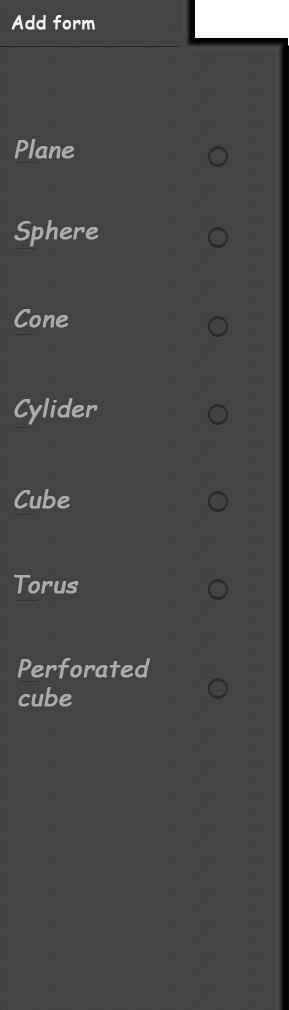
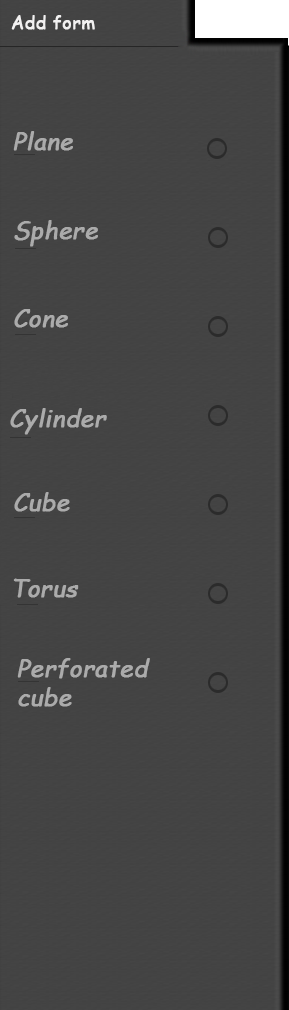
need to fix zoom / movement past is ready to use ready to add form

diff --git a/src/main/main.c b/src/main/main.c
@@ -5,7 +5,7 @@
 ** Login   <samuel_r@epitech.net>
 **
 ** Started on  Tue Apr  5 14:24:28 2016 romain samuel
-** Last update Sun Apr 24 18:26:08 2016 bougon_p
+** Last update Mon Apr 25 20:19:10 2016 bougon_p
 */
 
 #include "raytracer.h"
@@ -35,18 +35,37 @@ t_bunny_response        my_wheel(int wheelid,
 				 void *_data)
 {
   t_data	*data;
+  t_acc		vec;
 
   data = _data;
+  vec.x = 0;
+  vec.y = 0;
+  vec.z = 500;
   if (data->rt.live)
     {
       if (delta == 1 && wheelid == 0)
-	data->rt.eye.pos.z += 100;
+	{
+	  rotate_x(&vec, (double)data->rt.eye.rot.x);
+	  rotate_y(&vec, (double)data->rt.eye.rot.y);
+	  rotate_z(&vec, (double)data->rt.eye.rot.z);
+	  data->rt.eye.pos.x += vec.x;
+	  data->rt.eye.pos.y += vec.y;
+	  data->rt.eye.pos.z += vec.z;
+	}
       else if (delta == -1 && wheelid == 0)
-	data->rt.eye.pos.z -= 100;
-      if (delta == 1 && wheelid == 1)
-	data->rt.eye.pos.x += 100;
-      else if (delta == -1 && wheelid == 1)
-	data->rt.eye.pos.x -= 100;
+	{
+	  vec.z = -500;
+	  rotate_x(&vec, (double)data->rt.eye.rot.x);
+	  rotate_y(&vec, (double)data->rt.eye.rot.y);
+	  rotate_z(&vec, (double)data->rt.eye.rot.z);
+	  data->rt.eye.pos.x += vec.x;
+	  data->rt.eye.pos.y += vec.y;
+	  data->rt.eye.pos.z += vec.z;
+	}
+      /* if (delta == 1 && wheelid == 1) */
+      /* 	data->rt.eye.pos.x += 100; */
+      /* else if (delta == -1 && wheelid == 1) */
+      /* 	data->rt.eye.pos.x -= 100; */
     }
   return (GO_ON);
 }

diff --git a/src/interface/context/add_form.c b/src/interface/context/add_form.c
@@ -5,7 +5,7 @@
 ** Login   <bougon_p@epitech.net>
 **
 ** Started on  Sun Apr 17 01:54:34 2016 bougon_p
-** Last update Sun Apr 24 17:23:37 2016 bougon_p
+** Last update Mon Apr 25 19:01:57 2016 bougon_p
 */
 
 #include "raytracer.h"
@@ -40,16 +40,20 @@ int				add_form(t_data *data)
 {
   int				i;
   const t_bunny_position	*mpos;
+  int				save;
 
   printf("FCT => ADD FORM\n");
   mpos = data->itfc.mpos;
   i = 0;
+  save = NB_ADD_BT + 1;
   while (i < NB_ADD_BT)
     {
       if (mpos->x > ADD_BT_X
 	  && mpos->x < ADD_BT_X + ADD_BT_WDT
-	  && mpos->y > ADD_BT_Y + (ADD_BT_HGT * i) + (ADD_BT_DECAL * i)
-	  && mpos->y < ADD_BT_Y + (ADD_BT_HGT * i) + (ADD_BT_DECAL * i) + ADD_BT_HGT)
+	  && mpos->y > ADD_BT_Y + (ADD_BT_HGT * i)
+	  + (ADD_BT_DECAL * i)
+	  && mpos->y < ADD_BT_Y + (ADD_BT_HGT * i)
+	  + (ADD_BT_DECAL * i) + ADD_BT_HGT)
 	{
 	  if (i >= 0 && i < 3)
 	    first_add(data, i);
@@ -57,8 +61,18 @@ int				add_form(t_data *data)
 	    second_add(data, i);
 	  else if (i == 6)
 	    data->itfc.fct_bt_context = add_perf_cube;
+	  save = i;
+	  printf("SAVE = %d\n", save);
 	}
       i++;
     }
+  if (save < NB_ADD_BT)
+    {
+      data->itfc.past.pos.x = PAST_X;
+      data->itfc.past.pos.y = PAST_Y + save * PAST_DECAL_Y;
+    }
+  else
+    data->itfc.past.pos.x = 0;
+  printf("HIT -> %d", save);
   return (0);
 }

diff --git a/include/interface.h b/include/interface.h
@@ -5,7 +5,7 @@
 ** Login   <bougon_p@epitech.net>
 **
 ** Started on  Wed Apr 13 22:53:18 2016 bougon_p
-** Last update Sun Apr 24 18:36:30 2016 bougon_p
+** Last update Mon Apr 25 19:05:16 2016 bougon_p
 */
 
 #ifndef INTERFACE_H_
@@ -19,8 +19,8 @@
 
 # define WORK_SPACE_X 433
 # define MAX_WORK_SPACE_X 1904
-# define WORK_SPACE_Y 72
-# define MAX_WORK_SPACE_Y 985
+# define WORK_SPACE_Y 75
+# define MAX_WORK_SPACE_Y 1012
 
 # define START_STATUS 11
 # define NB_STATUS 3
@@ -44,10 +44,14 @@
 /*
 ** TXT DEFINES
 */
-#define FIRST_Y 12
-#define DECAL_X 2
-#define SIZE_Y 36
-#define CH_LINE 32
+# define FIRST_Y 12
+# define DECAL_X 2
+# define SIZE_Y 36
+# define CH_LINE 32
+
+# define PAST_X 341
+# define PAST_Y 210
+# define PAST_DECAL_Y 89
 
 typedef enum			e_status
   {
@@ -120,12 +124,19 @@ typedef	struct			s_open
   bool				need_open;
 }				t_open;
 
+typedef	struct			s_past
+{
+  t_bunny_position		pos;
+  t_bunny_picture		*img;
+}				t_past;
+
 typedef struct			s_itfc
 {
   t_move			move;
   t_text			txt;
   t_save			save;
   t_open			open;
+  t_past			past;
   t_bunny_picture		*layout;
   t_bunny_picture		*context[9];
   int				act_context;

diff --git a/src/main/tekpixel.c b/src/main/tekpixel.c
@@ -5,7 +5,7 @@
 ** Login   <samuel_r@epitech.net>
 **
 ** Started on  Sat Apr  9 13:49:53 2016 romain samuel
-** Last update Sun Apr 24 15:15:28 2016 bougon_p
+** Last update Mon Apr 25 15:17:54 2016 bougon_p
 */
 
 #include "raytracer.h"
@@ -27,15 +27,30 @@ void		mult_tekpixel(t_bunny_pixelarray *pix,
 			 t_color *color)
 {
   int		i;
+  int		i2;
+  int		i3;
+  int		i4;
   t_color	*col;
 
   col = (t_color *)pix->pixels;
   i = pix->clipable.clip_width * pos->y + pos->x;
+  i2 = pix->clipable.clip_width * (pos->y + 1) + pos->x;
+  i3 = pix->clipable.clip_width * (pos->y + 2) + pos->x;
+  i4 = pix->clipable.clip_width * (pos->y + 3) + pos->x;
   col[i] = *color;
   col[i + 1] = *color;
   col[i + 2] = *color;
-  i += pix->clipable.clip_width;
-  col[i] = *color;
-  col[i + 1] = *color;
-  col[i + 2] = *color;
+  col[i + 3] = *color;
+  col[i2] = *color;
+  col[i2 + 1] = *color;
+  col[i2 + 2] = *color;
+  col[i2 + 3] = *color;
+  col[i3] = *color;
+  col[i3 + 1] = *color;
+  col[i3 + 2] = *color;
+  col[i3 + 3] = *color;
+  col[i4] = *color;
+  col[i4 + 1] = *color;
+  col[i4 + 2] = *color;
+  col[i4 + 3] = *color;
 }

diff --git a/src/live_engine/display.c b/src/live_engine/display.c
@@ -5,7 +5,7 @@
 ** Login   <samuel_r@epitech.net>
 **
 ** Started on  Mon Apr 18 19:05:58 2016 romain samuel
-** Last update Sun Apr 24 15:15:16 2016 bougon_p
+** Last update Mon Apr 25 15:16:17 2016 bougon_p
 */
 
 #include "raytracer.h"
@@ -42,10 +42,10 @@ int			live_display(t_rt *s)
   if ((s->pixel_color = malloc(sizeof(t_color) * s->opt.aa)) == NULL)
     return (my_puterr("display: could not perform malloc"));
   pos.y = 0;
-  while (pos.y < 720)
+  while (pos.y < s->height)
     {
       pos.x = 0;
-      while (pos.x < 720)
+      while (pos.x < s->width)
 	{
 	  vct.x = ((double)s->width / 2.0) - (double)pos.x;
 	  vct.y = ((double)s->height / 2.0) - (double)pos.y;
@@ -53,9 +53,9 @@ int			live_display(t_rt *s)
 	  rotation(&vct, &s->eye.rot);
 	  final_color = live_display_objects(s, &vct, s->eye.pos, 0);
 	  mult_tekpixel(s->img, &pos, &final_color);
-	  pos.x += 2;
+	  pos.x += 4;
 	}
-      pos.y += 2;
+      pos.y += 4;
     }
   return (0);
 }

diff --git a/src/interface/init_itfc.c b/src/interface/init_itfc.c
@@ -5,7 +5,7 @@
 ** Login   <bougon_p@epitech.net>
 **
 ** Started on  Wed Apr 13 23:33:13 2016 bougon_p
-** Last update Sat Apr 23 16:17:43 2016 bougon_p
+** Last update Mon Apr 25 15:58:26 2016 bougon_p
 */
 
 #include "raytracer.h"
@@ -116,7 +116,13 @@ int	init_itfc_data(t_itfc *itfc, UNUSED int ac)
   itfc->rendered = false;
   itfc->move.needmoving = false;
   itfc->left_click = false;
-  if ((itfc->txt.font = bunny_load_picture("assets/img/font.png")) == NULL)
+  if ((itfc->txt.font =
+       bunny_load_picture("assets/img/incoshow.png")) == NULL)
     return (my_puterr("Could not perform bunny_load_picture"));
+  if ((itfc->past.img =
+       bunny_load_picture("assets/img/past.png")) == NULL)
+    return (my_puterr("Could not perform bunny_load_picture"));
+  itfc->past.pos.x = 0;
+  itfc->past.pos.y = 0;
   return (0);
 }

diff --git a/src/interface/rotate_eye.c b/src/interface/rotate_eye.c
@@ -5,7 +5,7 @@
 ** Login   <bougon_p@epitech.net>
 **
 ** Started on  Sun Apr 17 18:49:47 2016 bougon_p
-** Last update Thu Apr 21 22:32:41 2016 bougon_p
+** Last update Mon Apr 25 15:12:40 2016 bougon_p
 */
 
 #include "raytracer.h"
@@ -20,10 +20,10 @@ void	rotate(t_data *data, const t_bunny_position *mpos)
   else
     {
       data->itfc.move.second_pos = *mpos;
+      data->rt.eye.rot.y +=
+	((data->itfc.move.second_pos.x - data->itfc.move.first_pos.x) / 3);
       data->rt.eye.rot.x +=
-	((data->itfc.move.second_pos.x - data->itfc.move.first_pos.x) / 30);
-      data->rt.eye.pos.y +=
-	((data->itfc.move.second_pos.y - data->itfc.move.first_pos.y) / 30);
+	((data->itfc.move.second_pos.y - data->itfc.move.first_pos.y) / 3);
       data->itfc.move.first_pos = data->itfc.move.second_pos;
     }
 }

diff --git a/src/main/blit_clipables.c b/src/main/blit_clipables.c
@@ -5,7 +5,7 @@
 ** Login   <bougon_p@epitech.net>
 **
 ** Started on  Thu Apr 14 00:25:51 2016 bougon_p
-** Last update Fri Apr 22 22:28:52 2016 bougon_p
+** Last update Mon Apr 25 17:07:41 2016 bougon_p
 */
 
 #include "raytracer.h"
@@ -24,7 +24,9 @@ void		blit_clipables(t_data *data)
   if (rt->img != NULL)
     bunny_blit(&data->win->buffer, &rt->img->clipable, &rt->pos);
   if (data->ld.loading != NULL && data->itfc.rendered
-      && !rt->live && !itfc->button[SAVE])
+      && !rt->live && !itfc->button[SAVE] && !itfc->button[OPEN])
     bunny_blit(&data->win->buffer,
 	       &data->ld.loading->clipable, &data->ld.pos);
+  if (data->itfc.button[ADD_FORM] && data->itfc.past.pos.x != 0)
+    bunny_blit(&data->win->buffer, itfc->past.img, &itfc->past.pos);
 }

diff --git a/src/engine/display.c b/src/engine/display.c
@@ -5,7 +5,7 @@
 ** Login   <samuel_r@epitech.net>
 **
 ** Started on  Tue Apr  5 17:40:57 2016 romain samuel
-** Last update Fri Apr 22 18:16:17 2016 bougon_p
+** Last update Mon Apr 25 14:44:57 2016 bougon_p
 */
 
 #include "raytracer.h"
@@ -84,10 +84,10 @@ int			display(t_rt *s, t_data *data)
   if ((s->pixel_color = malloc(sizeof(t_color) * s->opt.aa)) == NULL)
     return (my_puterr("display: could not perform malloc"));
   pos.y = 0;
-  while (pos.y < 720)
+  while (pos.y < s->height)
     {
       pos.x = 0;
-      while (pos.x < 720)
+      while (pos.x < s->width)
 	{
 	  final_color = antialiasing(s, &pos, &vct, s->pixel_color);
 	  tekpixel(s->img, &pos, &final_color);

diff --git a/include/button.h b/include/button.h
@@ -5,7 +5,7 @@
 ** Login   <bougon_p@epitech.net>
 **
 ** Started on  Thu Apr 14 21:09:55 2016 bougon_p
-** Last update Sun Apr 24 18:41:36 2016 bougon_p
+** Last update Mon Apr 25 18:54:46 2016 bougon_p
 */
 
 #ifndef BUTTON_H_
@@ -34,11 +34,11 @@
 
 # define NB_BUTTON 19
 
-# define ADD_BT_X 135
+# define ADD_BT_X 145
 # define ADD_BT_Y 200
-# define ADD_BT_WDT 225
-# define ADD_BT_HGT 55
-# define ADD_BT_DECAL 30
+# define ADD_BT_WDT 215
+# define ADD_BT_HGT 60
+# define ADD_BT_DECAL 25
 # define NB_ADD_BT 7
 
 

diff --git a/src/engine/order_hit_list.c b/src/engine/order_hit_list.c
@@ -5,7 +5,7 @@
 ** Login   <samuel_r@epitech.net>
 **
 ** Started on  Sun Apr 10 20:49:25 2016 romain samuel
-** Last update Tue Apr 19 15:18:43 2016 romain samuel
+** Last update Mon Apr 25 14:27:01 2016 bougon_p
 */
 
 #include "raytracer.h"
@@ -33,7 +33,7 @@ int		order_list(t_object *root)
   it_prev = root->next;
   while (it != NULL)
     {
-      if (it_prev->real == 0 && it->real == 0 && it->k < it_prev->k)
+      if (it->k < it_prev->k)
 	{
 	  swap_objs(it, it_prev);
 	  return (-1);

diff --git a/include/raytracer.h b/include/raytracer.h
@@ -5,7 +5,7 @@
 ** Login   <samuel_r@epitech.net>
 **
 ** Started on  Fri Apr  1 19:50:30 2016 romain samuel
-** Last update Sun Apr 24 15:12:04 2016 bougon_p
+** Last update Mon Apr 25 14:53:46 2016 bougon_p
 */
 
 #ifndef RAYTRACER_H_
@@ -23,6 +23,8 @@
 # define WIN_HEIGHT 1080
 # define INIT_WIDTH 720
 # define INIT_HEIGHT 720
+# define FULL_WIDTH 1450
+# define FULL_HEIGHT 920
 
 /*
 ** COLOR DEFINES
